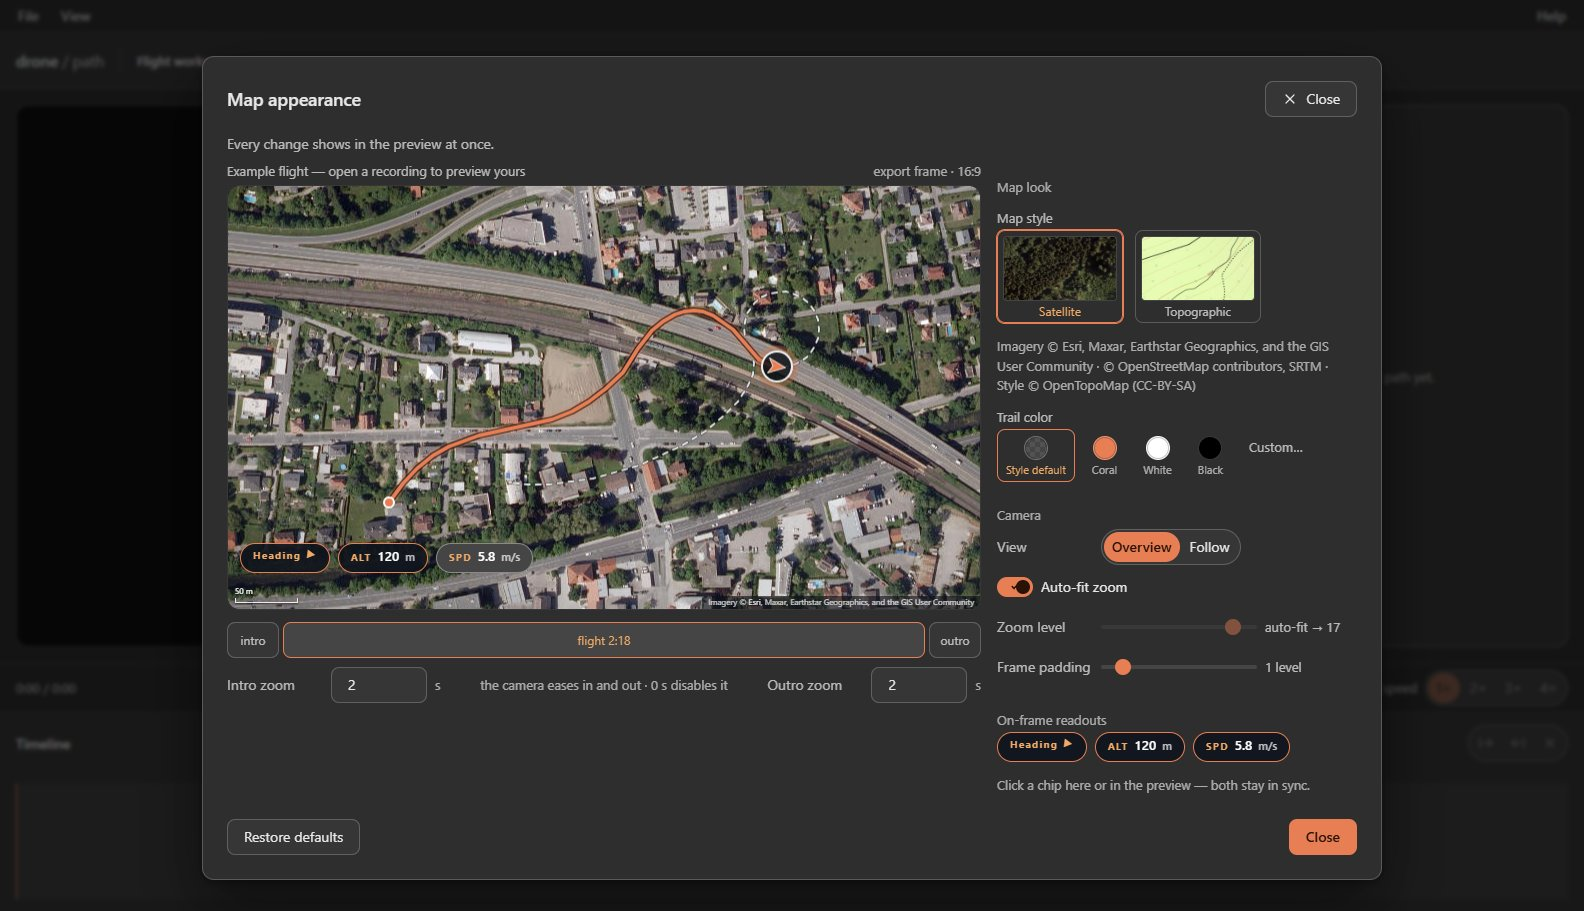
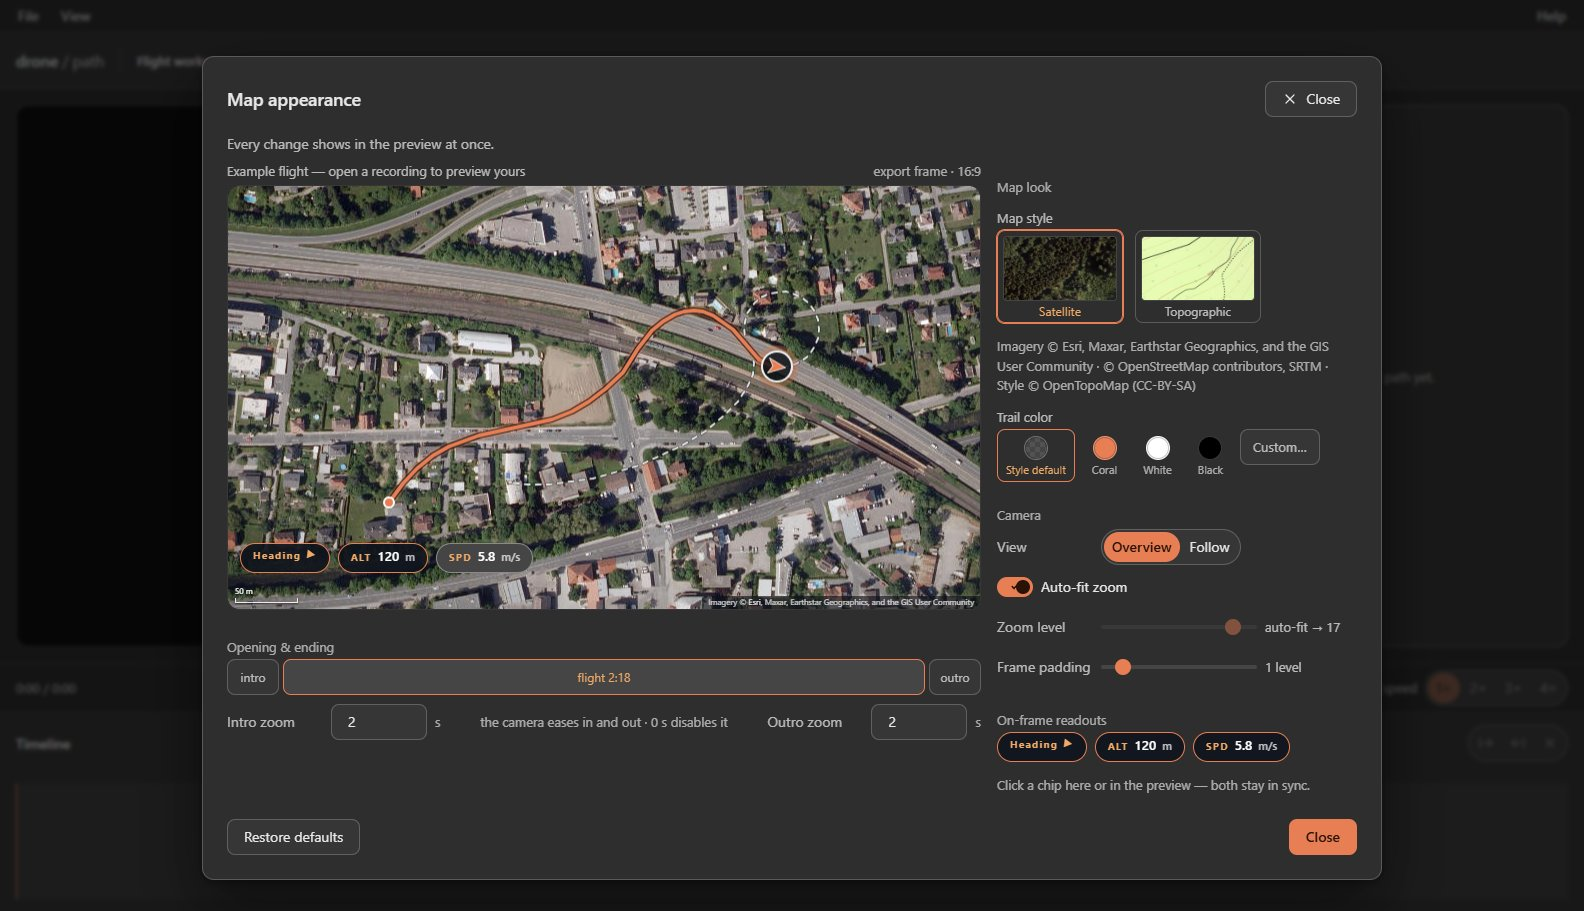
fix: polish the map appearance dialog labels, hints and chip names (#274)

Changed region(s): [[0.1237, 0.6762, 0.6187, 0.7991]]

diff --git a/test/ui/cameracontrols.test.tsx b/test/ui/cameracontrols.test.tsx
@@ -47,6 +47,15 @@ describe('CameraControls', () => {
     expect(onChange).toHaveBeenCalledWith({ zoom: 13 });
   });
 
+  it('returns to auto-fit when the toggle comes back on', () => {
+    const onChange = vi.fn(() => true);
+    renderControls({ zoom: 13 }, onChange);
+    const toggle = screen.getByLabelText<HTMLInputElement>('Auto-fit zoom');
+    expect(toggle.checked).toBe(false);
+    fireEvent.click(toggle);
+    expect(onChange).toHaveBeenCalledWith({ zoom: 0 });
+  });
+
   it('disables the zoom slider under auto-fit and shows the resolved level', () => {
     renderControls({ zoom: 0 });
     const slider = screen.getByLabelText<HTMLInputElement>('Zoom level');
@@ -74,14 +83,18 @@ describe('CameraControls', () => {
     const slider = screen.getByLabelText<HTMLInputElement>('Frame padding');
     expect(slider.disabled).toBe(false);
     expect(screen.getByText('1 level')).toBeTruthy();
+    expect(screen.queryByText('auto-fit only')).toBeNull();
     fireEvent.change(slider, { target: { value: '3' } });
     expect(onChange).toHaveBeenCalledWith({ zoomOut: 3 });
   });
 
-  it('disables frame padding while the zoom is pinned', () => {
+  it('explains the disabled frame padding while the zoom is pinned', () => {
     renderControls({ zoom: 13, framePadding: 2 });
-    expect(screen.getByLabelText('Frame padding').getAttribute('disabled')).not.toBeNull();
+    const slider = screen.getByLabelText<HTMLInputElement>('Frame padding');
+    expect(slider.disabled).toBe(true);
     expect(screen.getByText('2 levels')).toBeTruthy();
+    const hint = screen.getByText('auto-fit only');
+    expect(slider.getAttribute('aria-describedby')).toContain(hint.id);
   });
 
   it('shows and keeps a stored padding above the slider range until it is edited', () => {

diff --git a/test/ui/mapappearancemodal.test.tsx b/test/ui/mapappearancemodal.test.tsx
@@ -90,10 +90,10 @@ describe('MapAppearanceModal structure', () => {
     const dialog = screen.getByRole('dialog', { name: 'Map appearance' });
     expect(dialog.getAttribute('aria-modal')).toBe('true');
     expect(screen.getByText('Every change shows in the preview at once.')).toBeTruthy();
-    for (const legend of ['Map look', 'Camera', 'On-frame readouts']) {
+    for (const legend of ['Map look', 'Camera', 'On-frame readouts', 'Opening & ending']) {
       expect(screen.getByText(legend)).toBeTruthy();
     }
-    expect(screen.getByRole('group', { name: 'Opening and ending' })).toBeTruthy();
+    expect(screen.getByRole('group', { name: 'Flight structure' })).toBeTruthy();
     expect(document.querySelectorAll('.map-appearance-frame')).toHaveLength(1);
   });
 
@@ -336,7 +336,7 @@ describe('MapAppearanceModal preview', () => {
     renderModal({ session: null });
     await waitFor(() => expect(boot.calls).toHaveLength(1));
     const frames = boot.calls[0].data.lat.length;
-    const bar = screen.getByRole('group', { name: 'Opening and ending' });
+    const bar = screen.getByRole('group', { name: 'Flight structure' });
     fireEvent.click(within(bar).getByRole('button', { name: /intro/ }));
     await waitFor(() => expect(boot.scenes[0].setFrame).toHaveBeenCalledWith(0));
     fireEvent.click(within(bar).getByRole('button', { name: /outro/ }));

diff --git a/test/ui/openingendingstrip.test.tsx b/test/ui/openingendingstrip.test.tsx
@@ -33,13 +33,29 @@ function renderStrip(
 }
 
 function segments(): HTMLButtonElement[] {
-  return [...screen.getByRole('group', { name: 'Opening and ending' }).querySelectorAll('button')];
+  return [...screen.getByRole('group', { name: 'Flight structure' }).querySelectorAll('button')];
 }
 
 describe('OpeningEndingStrip', () => {
+  it('carries the visible Opening & ending heading of the fourth group', () => {
+    renderStrip();
+    const heading = screen.getByText('Opening & ending');
+    expect(heading.tagName).toBe('LEGEND');
+  });
+
   it('names the three phases with the flight length', () => {
     renderStrip();
     expect(segments().map((s) => s.textContent)).toEqual(['intro', 'flight 2:18', 'outro']);
+  });
+
+  it('says when the eases will shorten to fit the clip', () => {
+    renderStrip({ introSec: 40, outroSec: 40 });
+    expect(screen.getByText('Intro and outro shorten to fit this clip.')).toBeTruthy();
+  });
+
+  it('stays quiet while the eases fit the clip', () => {
+    renderStrip({ introSec: 2, outroSec: 2 });
+    expect(screen.queryByText('Intro and outro shorten to fit this clip.')).toBeNull();
   });
 
   it('sizes the segments after their durations', () => {

diff --git a/test/ui/hudchips.test.tsx b/test/ui/hudchips.test.tsx
@@ -80,7 +80,7 @@ describe('HudChips', () => {
     expect(onToggle).not.toHaveBeenCalled();
   });
 
-  it('points the heading arrow at the recorded heading', () => {
+  it('names the heading degrees for screen readers and keeps the arrow decorative', () => {
     render(
       <HudChips
         hud={{ heading: true, alt: false, speed: false }}
@@ -89,7 +89,21 @@ describe('HudChips', () => {
         onToggle={() => {}}
       />,
     );
-    const arrow = chips()[0].querySelector('.chip-arrow') as HTMLElement;
+    const heading = screen.getByRole('button', { name: 'Heading, 90°' });
+    const arrow = heading.querySelector('.chip-arrow') as HTMLElement;
+    expect(arrow.getAttribute('aria-hidden')).toBe('true');
     expect(arrow.style.transform).toBe('rotate(90deg)');
+  });
+
+  it('keeps the placeholder readout in the heading chip name while it is off', () => {
+    render(
+      <HudChips
+        hud={{ heading: false, alt: false, speed: false }}
+        readouts={READOUTS}
+        altUnavailable={false}
+        onToggle={() => {}}
+      />,
+    );
+    expect(screen.getByRole('button', { name: /Heading/ }).textContent).toContain('--');
   });
 });

diff --git a/ui/components/OpeningEndingStrip.tsx b/ui/components/OpeningEndingStrip.tsx
@@ -35,9 +35,13 @@ export function OpeningEndingStrip({
     { id: 'flight', grow: Math.max(flightSec, 0.01), label: `flight ${formatTime(flightSec)}` },
     { id: 'outro', grow: Math.max(outroSec, 0.01), label: 'outro' },
   ];
+  // The planner shortens both eases together when they exceed half the clip;
+  // the strip says so instead of silently disagreeing with the fields.
+  const willShorten = introSec + outroSec > flightSec / 2;
   return (
-    <div className="opening-ending">
-      <div className="structure-bar" role="group" aria-label="Opening and ending">
+    <fieldset className="settings-group opening-ending">
+      <legend>Opening &amp; ending</legend>
+      <div className="structure-bar" role="group" aria-label="Flight structure">
         {segments.map(({ id, grow, label }) => (
           <button
             key={id}
@@ -74,6 +78,7 @@ export function OpeningEndingStrip({
           onValue={(outroSec) => onChange({ outroSec })}
         />
       </div>
-    </div>
+      {willShorten ? <p className="hint">Intro and outro shorten to fit this clip.</p> : null}
+    </fieldset>
   );
 }

diff --git a/ui/components/HudChips.tsx b/ui/components/HudChips.tsx
@@ -33,11 +33,18 @@ export function HudChips({ hud, readouts, altUnavailable, onToggle }: HudChipsPr
         const disabled = chip === 'alt' && altUnavailable;
         const on = hud[chip] && !disabled;
         const text = on ? formatChipValue(chip, readouts) : '--';
+        // The arrow encodes the heading as rotation only, so the button names
+        // the degrees for screen readers (WCAG 1.1.1).
+        const headingName =
+          chip === 'heading' && on && readouts.headingDeg !== null
+            ? `Heading, ${Math.round(readouts.headingDeg)}°`
+            : undefined;
         return (
           <button
             key={chip}
             type="button"
             className="hud-chip"
+            aria-label={headingName}
             aria-pressed={on}
             disabled={disabled}
             onClick={() => onToggle(chip)}

diff --git a/ui/components/CameraControls.tsx b/ui/components/CameraControls.tsx
@@ -99,12 +99,19 @@ export function CameraControls({
           value={framePadding}
           disabled={!autoFit}
           aria-valuetext={`${framePadding} ${framePadding === 1 ? 'level' : 'levels'}`}
-          aria-describedby={`${paddingId}-readout`}
+          aria-describedby={
+            autoFit ? `${paddingId}-readout` : `${paddingId}-readout ${paddingId}-hint`
+          }
           onChange={(e) => onChange({ zoomOut: Number(e.target.value) })}
         />
         <span className="range-readout" id={`${paddingId}-readout`}>
           {`${framePadding} ${framePadding === 1 ? 'level' : 'levels'}`}
         </span>
+        {autoFit ? null : (
+          <span className="hint" id={`${paddingId}-hint`}>
+            auto-fit only
+          </span>
+        )}
       </div>
     </div>
   );

diff --git a/test/ui/trailcolorswatches.test.tsx b/test/ui/trailcolorswatches.test.tsx
@@ -85,4 +85,13 @@ describe('TrailColorSwatches', () => {
     expect(swatchButtons()[0].getAttribute('aria-pressed')).toBe('true');
     expect(swatchButtons()[4].getAttribute('aria-pressed')).toBe('false');
   });
+
+  it('leaves custom mode when the value resets to the style default from outside', () => {
+    const { rerender } = render(<TrailColorSwatches value="#41f0ff" onChange={() => true} />);
+    expect(screen.getByLabelText('Hex')).toBeTruthy();
+    rerender(<TrailColorSwatches value={null} onChange={() => true} />);
+    expect(screen.queryByLabelText('Hex')).toBeNull();
+    expect(swatchButtons()[0].getAttribute('aria-pressed')).toBe('true');
+    expect(swatchButtons()[4].getAttribute('aria-pressed')).toBe('false');
+  });
 });

diff --git a/ui/components/TrailColorSwatches.tsx b/ui/components/TrailColorSwatches.tsx
@@ -14,6 +14,13 @@ interface TrailColorSwatchesProps {
 /** Trail color as a swatch row; Custom… reveals the hex field. */
 export function TrailColorSwatches({ value, onChange }: TrailColorSwatchesProps) {
   const [customOpen, setCustomOpen] = useState(() => swatchIdFor(value) === 'custom');
+  const [prevValue, setPrevValue] = useState(value);
+  // A value reset from outside (Restore defaults) ends custom mode too, so the
+  // pressed swatch always names the stored color.
+  if (value !== prevValue) {
+    setPrevValue(value);
+    if (value === null) setCustomOpen(false);
+  }
   return (
     <div className="trail-swatches-group">
       <div className="trail-swatches" role="group" aria-label="Trail color">

diff --git a/ui/app/globals.css b/ui/app/globals.css
@@ -1207,6 +1207,11 @@ button.primary {
 .trail-swatch-custom {
   flex-direction: row;
   align-items: center;
+  min-height: var(--control-h);
+  padding: 6px 12px;
+  background: var(--surface-2);
+  border: 1px solid var(--hairline-strong);
+  border-radius: var(--radius-control);
   font-size: 13px;
   color: var(--text-2);
 }
@@ -1304,6 +1309,7 @@ button.primary {
   display: flex;
   flex-direction: column;
   gap: 8px;
+  margin: 0;
 }
 .structure-bar {
   display: flex;
